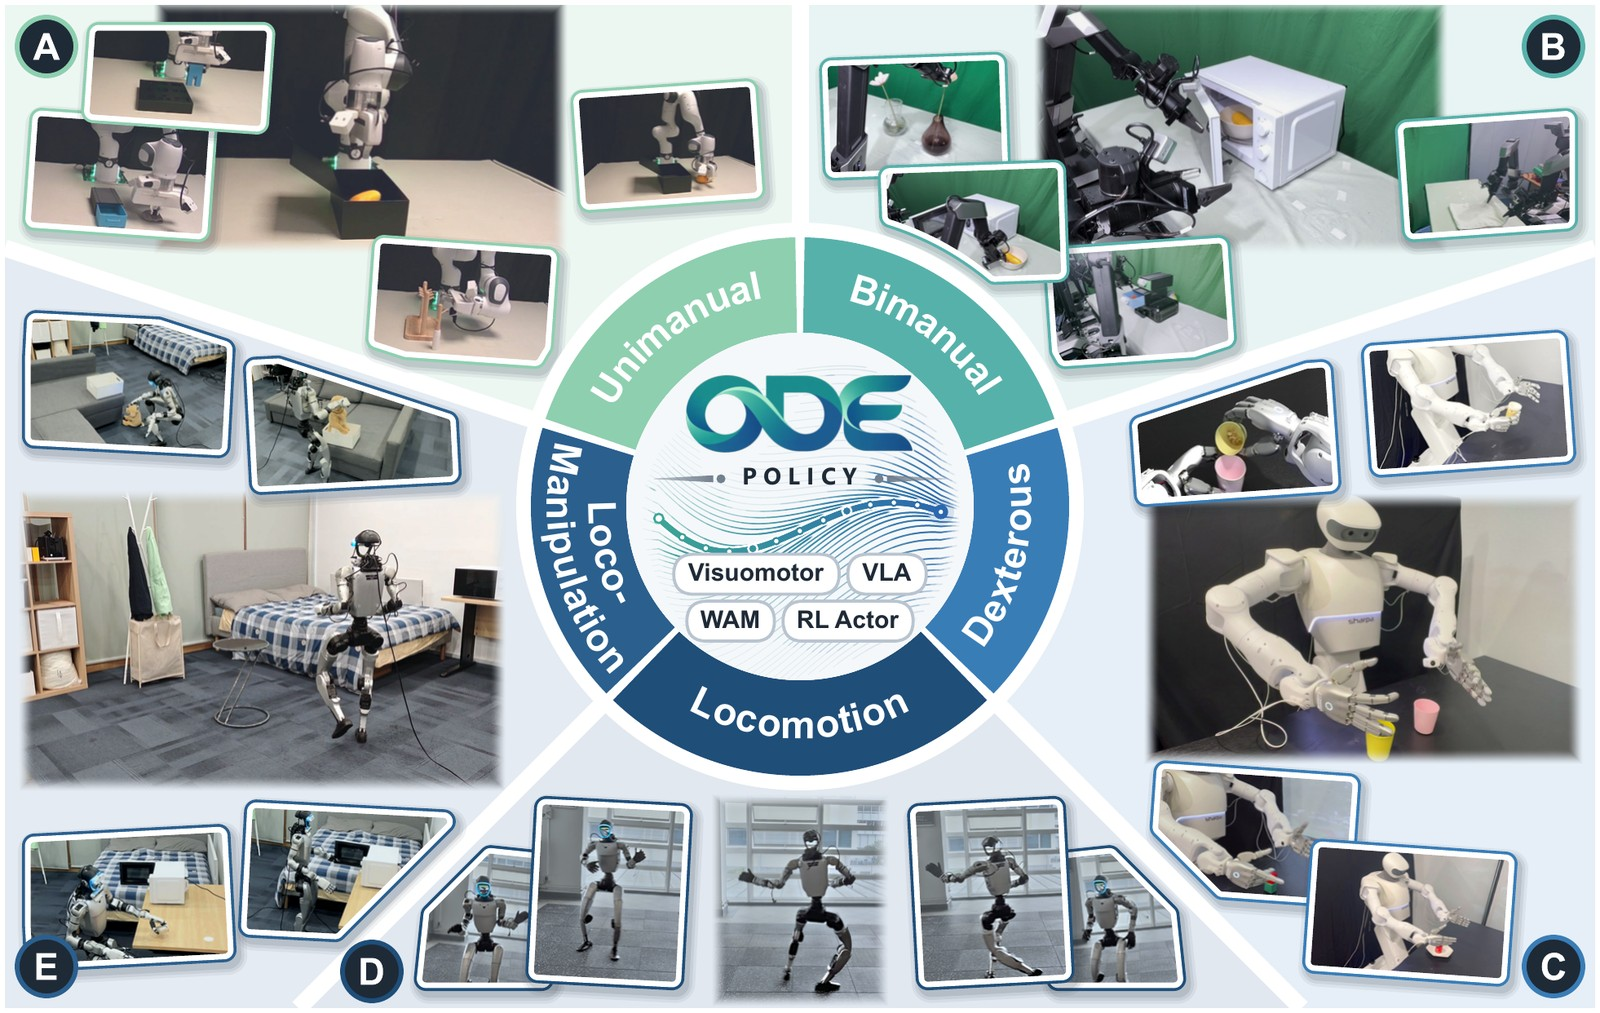
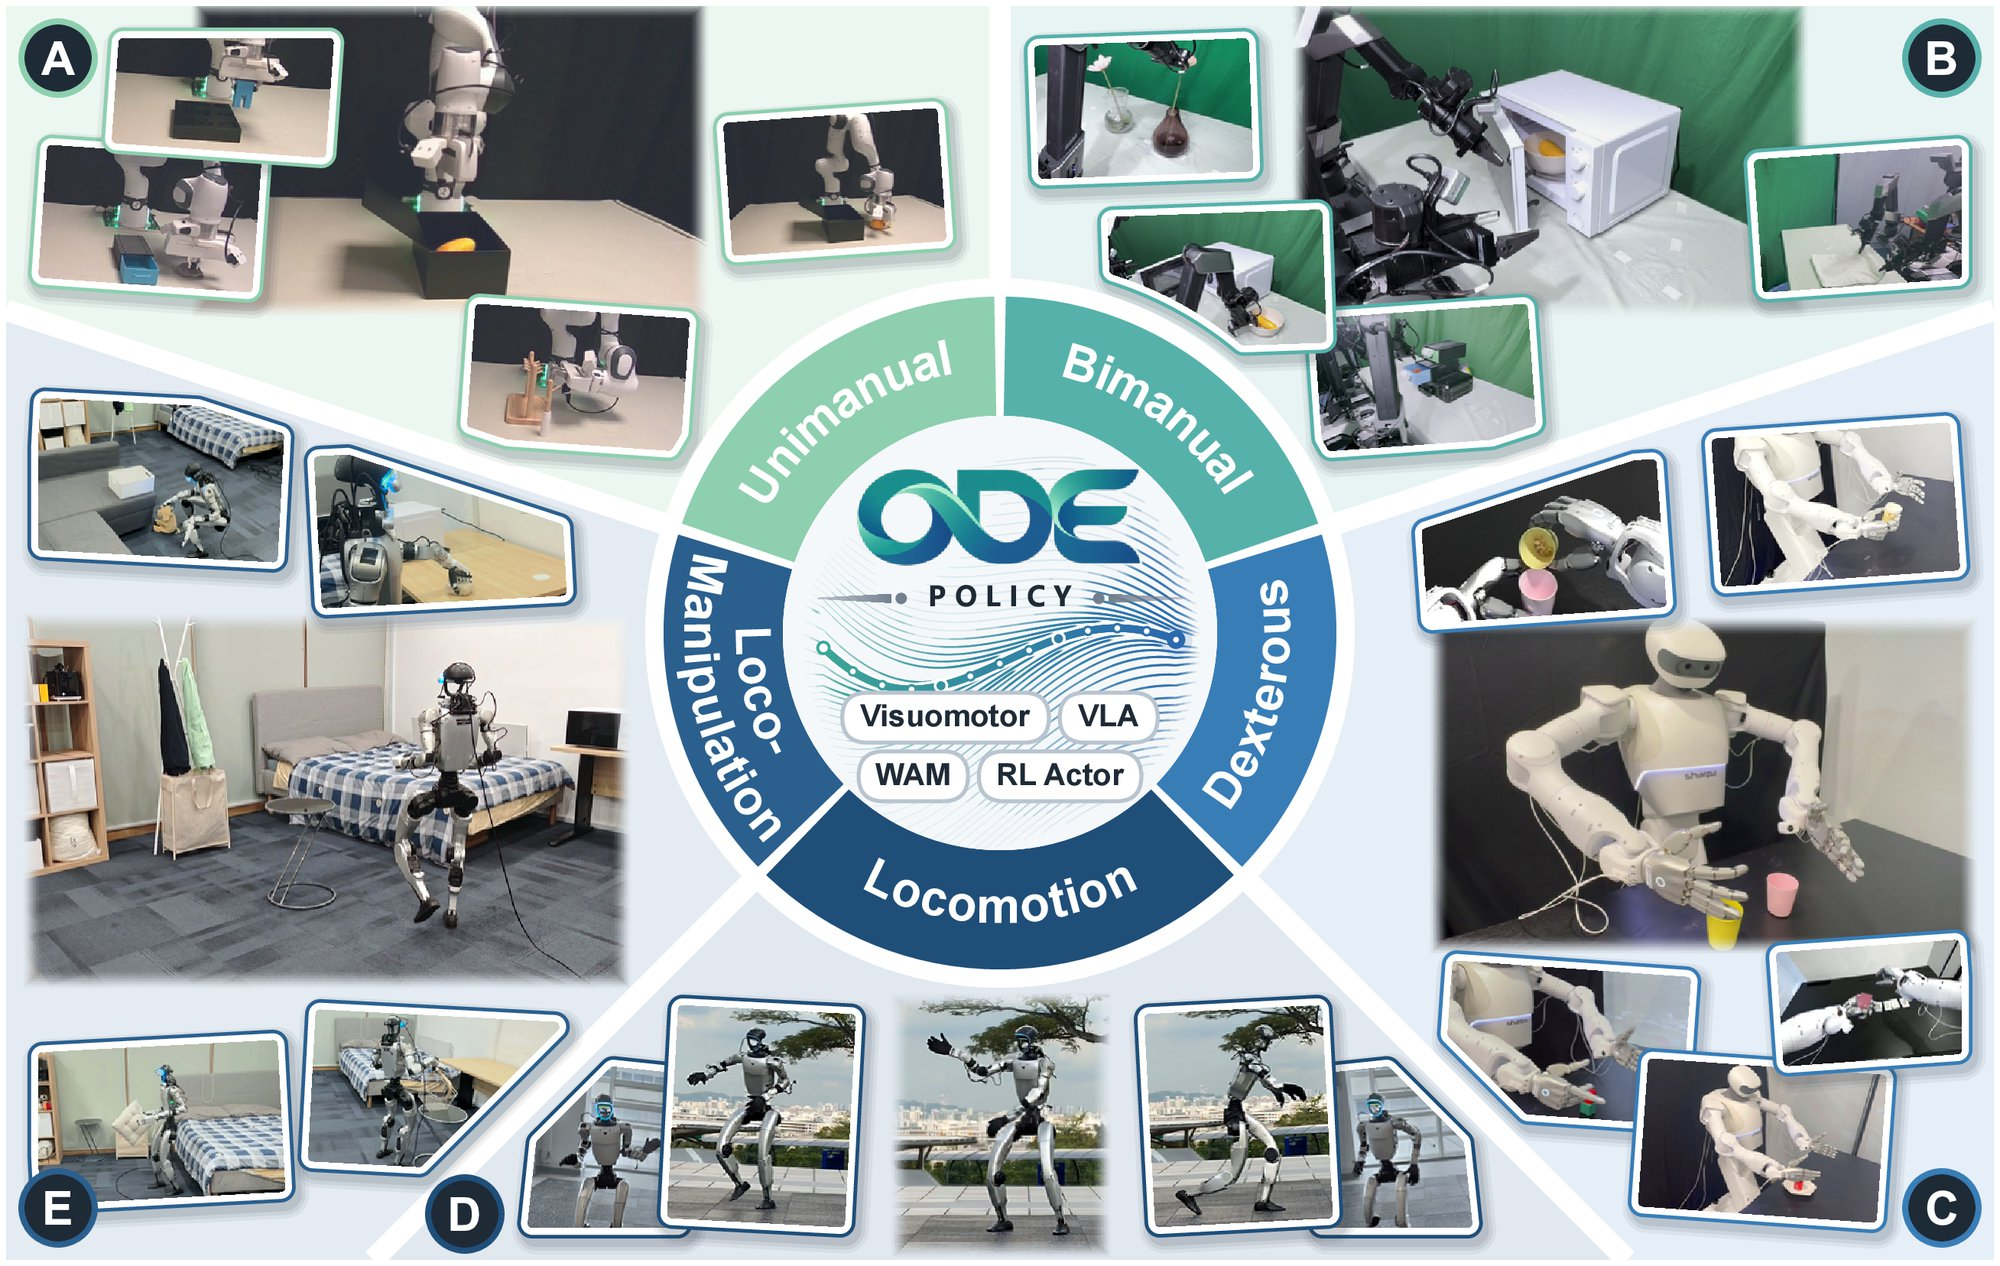
docs(readme): new teaser from the paper, shorter method, configuration, setup and benchmark sections

diff --git a/README.md b/README.md
@@ -104,181 +104,107 @@ Against 14 baselines, in simulation and on four real robots:
   <img src="docs/assets/method.jpg" alt="Direct-action policies vs. ODE policy" width="100%">
 </p>
 
-The policy encodes the observation and the proprioception into an embedding and learns a velocity field of the action
-
 ```
-z     = E(c, s)
-da/dt = f(a, z)
+z     = E(c, s)          # observation c and proprioception s, encoded once per chunk
+da/dt = f(a, z)          # vector field of the action state a
 ```
 
-- **a**: the action state, i.e. the reference the controller tracks. On LIBERO this is the end-effector pose the
-  controller is aiming at (the *virtual target*, see [docs/METHOD_NOTES.md](docs/METHOD_NOTES.md)).
-- **c**: the observation condition (8 frames of images and the language instruction).
-- **s**: proprioception, encoded into the condition together with the images (the arXiv paper gave it to the vector
-  field directly; see [Default configuration](#-default-configuration-2026-11)).
-- **z**: the embedding of `c` and `s`, computed once per chunk.
-- **Gripper**: one more state of the ODE, integrated next to the pose. Each open/close switch of the
-  demonstrations is ramped over a few steps, so the state is continuous; the command sent to the robot is
-  read off it and stays discrete.
+The action state `a` is the reference the controller tracks (on LIBERO the *virtual target*, see
+[docs/METHOD_NOTES.md](docs/METHOD_NOTES.md)). A discrete gripper is one more state, ramped over a few steps in the
+data. Every H = 8 steps the policy encodes `z` and integrates the field with *Euler* for 8 steps, starting from the
+last integrated action, so consecutive chunks join without a jump.
 
-1. **Decide.** Every H = 8 control steps, read the observation once and encode `c` and `s` into `z`. `z` stays
-   fixed for the chunk.
-2. **Integrate.** Integrate the field with *Euler* for 8 steps (one field call per step), starting from the last
-   integrated action rather than the measured pose, so consecutive chunks join without a jump. The paper used RK4.
-   RK4, RK2 and *Euler* learn about equally well.
-3. **Track.** The robot's controller tracks the 8 integrated references.
-
-**Training.** Integrate the field from the demonstrated action for 8 steps and match the whole path to the
-demonstration (MSE), backpropagating through the solver. No velocity labels, no differencing. A contractive start
-perturbation (start shifted by δ, target offset shrinking by ρ^k) teaches the field to pull drift back to the
-demonstration.
-
-**Optional diversity head.** A small head reads the field's (detached) features at the chunk start and samples a
-direction ε from a learned mixture, added to the velocity with a learned per-step rate. The field and its gradients
-are untouched, and with ε = 0 the policy is exactly the plain ODE.
+**Training.** Integrate from the demonstrated action and match the whole path (MSE, backpropagated through the
+solver). A contractive start perturbation teaches the field to pull drift back. An optional diversity head samples a
+start direction for multi-modal data and leaves the plain ODE unchanged when off.
 
 ### Methods on `main`
 
-`<policy>` is the name used by the scripts below.
-
 | Policy | Name | Action head |
 | --- | --- | --- |
-| **ODE-MLP** (ours) | `ode` | velocity field = FiLM residual MLP, integrated with *Euler* |
-| **ODE-DiT** (ours) | `ode_dit` | velocity field = adaLN DiT blocks, integrated with *Euler* |
-| FM-DiT | `fm_dit` | conditional flow matching, DiT |
-| FM-UNet | `fm_unet` | conditional flow matching, 1D UNet |
-| A2A-DiT | `a2a_dit` | flow from the action history, DiT |
-| A2A | `a2a` | flow from the action history, MLP |
-| DDPM-DiT | `ddpm_dit` | diffusion, DiT |
-| DDPM-UNet | `ddpm_unet` | diffusion, 1D UNet (Diffusion Policy) |
-| DDIM-UNet | `ddim_unet` | DDIM sampling, 1D UNet |
-| MARS | `mars` | flow matching with a learned history / noise router |
+| **ODE-MLP** (ours) | `ode` | velocity field = FiLM residual MLP |
+| **ODE-DiT** (ours) | `ode_dit` | velocity field = adaLN DiT blocks |
+| FM-DiT / FM-UNet | `fm_dit` / `fm_unet` | conditional flow matching |
+| A2A-DiT / A2A | `a2a_dit` / `a2a` | flow from the action history |
+| DDPM-DiT / DDPM-UNet / DDIM-UNet | `ddpm_dit` / `ddpm_unet` / `ddim_unet` | diffusion (Diffusion Policy) |
+| MARS | `mars` | flow matching with a history / noise router |
 | ACT | `act` | CVAE + transformer decoder |
 
-All methods share the same observation encoder (ResNet18 with GroupNorm, randomly initialised, 8 frames and a frozen
-CLIP embedding of the instruction) and, on LIBERO, about 24M parameters outside the encoder.
+All share the same observation encoder (ResNet18, 8 frames, frozen CLIP instruction embedding).
 
 ## 🧩 Default configuration (2026-11)
 
-Two defaults changed after the paper, both in [`ode.yaml`](ode_policy/configs/policy_config/ode.yaml):
+Two defaults in [`ode.yaml`](ode_policy/configs/policy_config/ode.yaml) changed after the paper:
 
 | | Paper | Now |
 | --- | --- | --- |
-| Proprioception `s` | into the vector field (`field_use_s=true cond_use_s=false`) | into the observation condition (`field_use_s=false cond_use_s=true`) |
-| Discrete gripper | separate classification head (`grip_ode=false`) | a ramped state of the ODE, discrete command (`grip_ode=true`, data `build_ode_zarr.py --grip_ramp 5`) |
+| Proprioception `s` | into the vector field | into the observation condition (`cond_use_s=true`) |
+| Discrete gripper | classification head | a ramped ODE state (`grip_ode=true`, data `--grip_ramp 5`) |
 
-**Why.** Fed straight into the field, proprioception lets the policy continue from its own state instead of reading
-the scene; with a gripper whose opening follows the command, it ends up copying that opening. A stateless field also
-cannot represent *wait, then move*: demonstrations that pause after closing the gripper (motion-planned data, Tool
-Hang-like tasks) make it stand still. The integrated gripper state carries the timing through such pauses.
+Fed into the field, proprioception lets the policy copy its own state instead of reading the scene, and a stateless
+field stalls on demonstrations that pause after a grasp.
 
-**Evidence** (one seed; success rate %).
-
-| Setting | Paper configuration | New default |
+| Success % (one seed) | Paper configuration | New default |
 | --- | --- | --- |
-| LIBERO, four suites, epochs 1 / 5 / 10 / 20 (RK4, 10 episodes per task) | 79.2 / 95.0 / 92.8 / 93.0 | 75.0 / 91.8 / 92.8 / 92.0 |
-| LIBERO-plus, libero_10 zero-shot, the same 300 perturbed instances (epoch 20): camera / robot init / layout / background / light / noise | 34.3: 0 / 54 / 50 / 46 / 34 / 22 | **51.3**: 14 / 76 / 48 / 62 / 58 / 50 |
-| ManiSkill3 PickCube, joint control, motion-planned demos with a pause after each grasp (epoch 100)¹ | 33 (stalls at the grasp) | 100 |
+| LIBERO, four suites, epochs 1 / 5 / 10 / 20 | 79.2 / 95.0 / 92.8 / 93.0 | 75.0 / 91.8 / 92.8 / 92.0 |
+| LIBERO-plus, libero_10 zero-shot (epoch 20) | 34.3 | **51.3** |
+| ManiSkill3 PickCube, demos that pause after the grasp | 33 (stalls) | 100 |
 
-On ManiSkill3 (joint control, 200 demonstrations, 100 test episodes per point) the new default against FM-DiT on the
-same data, epochs 10 / 50 / 100: PickCube 96 / 100 / 100 vs 23 / 88 / 90, StackCube 9 / 29 / 26 vs 0 / 6 / 9,
-PushCube 99 / 97 / 97 vs 100 / 95 / 96, with 3–15× lower end-effector jerk and ~10× faster inference. The
-ManiSkill3 pipeline is in [ManiSkill3 and robomimic](#-maniskill3-and-robomimic).
-
-¹ ManiSkill3 runs: no diversity head, start perturbation 0.03 rad per joint, Euler; the paper-configuration number
-is from an earlier run with 30 test episodes.
-
-To get the paper's configuration back: `policy_config.field_use_s=true policy_config.cond_use_s=false
-policy_config.grip_ode=false` (add `policy_config.solver=rk4` for the exact runs) and train on
-`ODE_ZARR=data_policy/libero_4suite_50demo_ode_vt.zarr`.
+The paper's configuration: `policy_config.field_use_s=true policy_config.cond_use_s=false policy_config.grip_ode=false
+policy_config.solver=rk4` with `ODE_ZARR=data_policy/libero_4suite_50demo_ode_vt.zarr`.
 
 ## 🛠 Installation
 
-Linux with an NVIDIA GPU and conda. One script sets up everything, with the exact versions the paper's results were
-produced with (Python 3.10, PyTorch 2.5.1 + CUDA 12.1, robosuite 1.4.1, MuJoCo 2.3.5, LIBERO at a pinned commit):
+Linux, an NVIDIA GPU and conda. One script installs the exact versions behind the paper (Python 3.10, PyTorch 2.5.1
++ CUDA 12.1, robosuite 1.4.1, MuJoCo 2.3.5, LIBERO at a pinned commit):
 
 ```bash
 git clone https://github.com/NTUMARS/ODE-POLICY.git && cd ODE-POLICY
-bash scripts/setup_env.sh          # creates the conda env "ode_policy"
+bash scripts/setup_env.sh          # conda env "ode_policy"; options ENV_NAME, ENV_PREFIX, TORCH_CUDA
 conda activate ode_policy
 ```
 
-Options (environment variables): `ENV_NAME`, `ENV_PREFIX` (env at a path), `TORCH_CUDA` (`cu118` / `cu121` / `cpu`).
-LIBERO's path config is written to `third_party/libero_config/` and selected through `LIBERO_CONFIG_PATH`, set for
-this conda env only (`~/.libero` is not touched). Rendering uses EGL (`MUJOCO_GL=egl`, set by the scripts).
-
 ## 🧭 Quick start: 2D navigation (minutes)
 
-A circle agent passes one of four gaps in a wall, and all four routes are demonstrated equally often. A quick check
-that the installation works, and the multimodality experiment of the paper:
+A circle agent passes one of four gaps in a wall, all four demonstrated equally often (the paper's multimodality task):
 
 ```bash
 bash scripts/run_nav2d.sh ode        # also: fm_dit | a2a_dit | mars;  optional 2nd arg: seed
 ```
 
-It generates 200 demonstrations, trains for 20 epochs and evaluates 100 rollouts at epochs 1 / 3 / 5 / 10 / 20:
-success rate, how often each route is taken, and the mode balance γ (1 = all four routes equally often). Results and
-trajectory plots are written to `il_outputs/ode_nav2d_s42/nav2d/eval/`.
+It trains for 20 epochs and reports success, route frequencies and the mode balance γ in
+`il_outputs/ode_nav2d_s42/nav2d/eval/`.
 
 ## 🧪 LIBERO
 
-**Data** (≈34 GB download):
-
 ```bash
-bash scripts/prepare_libero_data.sh
+bash scripts/prepare_libero_data.sh                                  # ≈34 GB, 4 suites, 2000 demonstrations
+bash scripts/train_libero.sh ode                                     # or any policy name above
+bash scripts/eval_libero.sh il_outputs/ode/libero_4suite/checkpoints/100.ckpt   # optional 2nd arg: one suite
 ```
 
-This downloads the official demonstrations, converts each suite to zarr with a CLIP embedding of every instruction,
-merges the four suites into one training set (`data_policy/libero_4suite_50demo.zarr`, 40 tasks, 2000 demonstrations)
-and derives the ODE policy's virtual-target versions (images are symlinked, so they cost megabytes):
-`data_policy/libero_4suite_50demo_ode_vt_gr5.zarr` with the gripper switches ramped over 5 steps (the default policy)
-and `data_policy/libero_4suite_50demo_ode_vt.zarr` with the raw gripper command (the paper's configuration).
-
-**Train** one model on all four suites (100-epoch cosine schedule, batch 32, seed 42):
-
-```bash
-bash scripts/train_libero.sh ode
-bash scripts/train_libero.sh fm_dit            # any policy name from the table above
-bash scripts/train_libero.sh ode libero_4suite train_config.training_params.checkpoint_epochs=[1,10,100]
-```
-
-Checkpoints are written to `il_outputs/<policy>/libero_4suite/checkpoints/<epoch>.ckpt`. The configuration in
-[`ode.yaml`](ode_policy/configs/policy_config/ode.yaml) is the current default (see
-[Default configuration](#-default-configuration-2026-11)); the paper's runs are reproduced with the flags in
-[docs/REPRODUCE.md](docs/REPRODUCE.md).
-
-**Evaluate** on the four suites (10 tasks × 20 episodes each, LIBERO's fixed initial states):
-
-```bash
-bash scripts/eval_libero.sh il_outputs/ode/libero_4suite/checkpoints/100.ckpt
-bash scripts/eval_libero.sh il_outputs/ode/libero_4suite/checkpoints/100.ckpt libero_object
-```
-
-The ODE evaluator defaults to the paper's protocol (8 steps per inference, carried execution, tracker gain 1, centre
-of the diversity head's mixture component). Every evaluation also records execution quality: completion time,
-end-effector jerk, command smoothness inside and across chunks, and inference time (`__exec__` in the result json).
+One model is trained on all 40 tasks (100 epochs, batch 32) and tested on 10 tasks × 20 episodes per suite. Each
+evaluation also records completion time, jerk, smoothness and inference time (`__exec__` in the result json).
 
 > [!TIP]
-> To reproduce the paper's experiments (data efficiency, network size, chunk length, integrator, LIBERO-plus zero-shot
-> generalization, inference speed), see [docs/REPRODUCE.md](docs/REPRODUCE.md).
+> To reproduce the paper's experiments, see [docs/REPRODUCE.md](docs/REPRODUCE.md).
 
 ## 🦾 ManiSkill3 and robomimic
 
-One model per method is trained on all tasks of a benchmark and tested on each, as on LIBERO.
+One model per method is trained on all tasks of a benchmark, as on LIBERO.
 
 | | ManiSkill3 | robomimic |
 | --- | --- | --- |
 | Tasks | 8: PushCube, PickCube, StackCube, PullCube, LiftPegUpright, PlaceSphere, PullCubeTool, StackPyramid | 4: Tool Hang, Square, Can, Lift |
 | Demonstrations | 200 per task, motion planning | 200 per task, proficient human |
-| Input, action | 128 px base camera, joint state; joint targets | agent-view and wrist cameras at 240 px, CLIP task embedding; end-effector pose |
+| Input, action | 128 px base camera, joint state; joint targets | agent-view and wrist cameras at 240 px; end-effector pose |
 | ODE setting | gripper state sent as the command (`grip_cmd=raw`) | same, plus dropout 0.3 on the field's pose outputs |
 | Mean success %, epochs 1 / 5 / 10 / 20 / 50: ODE | **34.1 / 52.8 / 64.8 / 69.6 / 72.5** | **8.2 / 43.8 / 65.5 / 86.8 / 85.8** |
 | FM-DiT | 9.4 / 28.4 / 40.5 / 55.0 / 71.1 | 9.3 / 35.0 / 50.2 / 64.2 / 83.3 |
 | Inference per chunk, ODE vs FM-DiT | 5.7 vs 55.0 ms | 12.3 vs 68.1 ms |
 | End-effector jerk, ODE vs FM-DiT | 4.4 vs 8.2 m/s³ | 4.3 vs 10.6 m/s³ |
 
-One seed, 100 test episodes per task and checkpoint. Inference time and jerk are measured at epoch 50 (jerk over
-successful episodes).
+One seed, 100 test episodes per task and checkpoint; time and jerk at epoch 50.
 
 ```bash
 # ManiSkill3 (environment: ode_policy/maniskill/README.md)
@@ -291,22 +217,14 @@ bash scripts/train_robomimic.sh ode
 bash scripts/eval_robomimic.sh il_outputs/ode/rm4/checkpoints/50.ckpt
 ```
 
-**Small datasets overfit.** robomimic has only 200 demonstrations per task. On it the ODE fits the training paths
-almost exactly, and its success drops after about epoch 20. Dropout on the vector field fixes this: one mask per
-chunk, off at test time (`policy_config.field_dropout=0.3 policy_config.field_dropout_pose=true`). For single-task
-models at epoch 100 it raises Square from 73% to 93% and Transport from 38% to 80%. `train_robomimic.sh` turns it
-on. LIBERO (2000 demonstrations) and ManiSkill3 (1600) do not need it.
+**Small datasets overfit.** With 200 demonstrations per task the ODE fits robomimic's training paths almost exactly.
+Dropout on the vector field (`policy_config.field_dropout=0.3 policy_config.field_dropout_pose=true`) fixes this,
+e.g. Square 73% → 93% at epoch 100. LIBERO and ManiSkill3 do not need it.
 
 ## 🦾 Bring ODE policy to your robot
 
-The one step that matters is choosing the action state `a` so that the controller reproduces the demonstration from
-it. [docs/PORTING.md](docs/PORTING.md) covers:
-
-- **The virtual target** for delta controllers, and absolute and joint-space control.
-- **The pose representation** of the action state.
-- **The settings that must stay aligned** between training and execution.
-
-[docs/METHOD_NOTES.md](docs/METHOD_NOTES.md) collects what we learned along the way, including what did not work.
+The step that matters is choosing the action state `a` so that the controller reproduces the demonstration from it.
+See [docs/PORTING.md](docs/PORTING.md), and [docs/METHOD_NOTES.md](docs/METHOD_NOTES.md) for what did and did not work.
 
 ## 📁 Repository layout
 
@@ -317,7 +235,7 @@ it. [docs/PORTING.md](docs/PORTING.md) covers:
 ode_policy/
 ├── policies/ode/ode_image_policy.py   # the ODE policy: vector fields, integration, loss, diversity head
 ├── policies/{fm,a2a,dp,mars,act}/     # baselines
-├── configs/policy_config/             # one yaml per policy (ode.yaml = the paper's configuration)
+├── configs/policy_config/             # one yaml per policy
 ├── libero/                            # LIBERO: data conversion, env wrapper, training runner, evaluators
 │   ├── build_ode_zarr.py              #   demonstrations -> virtual-target poses for the ODE policy
 │   ├── pose.py                        #   pose representation and the pose -> OSC command tracker
